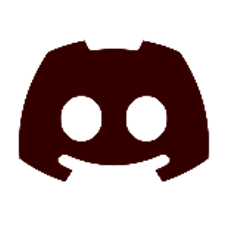
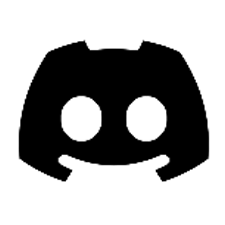
v2

diff --git a/aki/src/App.jsx b/aki/src/App.jsx
@@ -1,5 +1,6 @@
 import React from "react";
 
+
 function Debug() {
   return (
     <div>
@@ -46,14 +47,28 @@ function BioD(props) {
 function Obsession(props) {
   return (
     <div className="text-center uppercase">
-      <p>
+      <p className="text-md">
         {(props.type === "music" || props.type === "song") && "🎧"}
         {(props.type === "manga" || props.type === "book" || props.type === "manhua" || props.type === "manhwa") && "📖"}
         {props.type === "game" && "🎮"}
         {props.type === "anime" && "📺"}
         {props.type === "movie" && "🎬"}
         {props.type === "person" && "👤"}
+        {props.type === "artist" && "👤🎶"}
+        {props.type === "album" && "💿🎶"}
         {props.title}
+      </p>
+    </div>
+  );
+}
+function Games(props) {
+  return (
+    <div className="text-left uppercase">
+      <p className="text-md">
+        {(props.activity === "active") && "🎮"}
+        {(props.activity === "inactive") && "❌"}
+        {props.title}
+        {(props.id !== "") && <p className="text-xs">ID: {props.id}</p>}
       </p>
     </div>
   );
@@ -63,9 +78,9 @@ let twelve = new Date(1747238400 * 1000).toLocaleTimeString([], { hour: '2-digit
 
 export default function App() {
   return (
-    <div className="w-full flex items-center justify-center bg-light font-Montserrat overflow-hidden">
+    <div className=" flex items-center  bg-light font-Montserrat overflow-hidden">
       <div
-        className=" h-full min-h-screen w-full max-w-7xl
+        className="min-h-screen w-full max-w-7xl
         grid gap-3 p-3 
         border-font border-2 
         sm:grid-cols-1 md:grid-cols-2 lg:grid-cols-3
@@ -80,7 +95,7 @@ export default function App() {
           bg-bg rounded-3xl p-4"
         >
           <div className="flex h-full flex-col">
-            <h1 className="font-black text-2xl">⊹ Socials & Connections ⊹</h1>
+            <h1 className="font-black lg:text-2xl">⊹ Socials & Connections ⊹</h1>
             <div className="grid md:grid-cols-2 w-full">
               <Social img="./img/discord.png" alt="discord" name="@akihikooo" />
               <Social
@@ -94,14 +109,23 @@ export default function App() {
         <div id="call"
           className="col-span-1 row-span-1 bg-bg rounded-3xl p-4">
           <h1 className="text-md font-black">Names to call me:</h1>
-          <p className="text-center">Akiera, Akihiko, Aki</p>
+          <div className="grid grid-cols-2 gap-1">
+            <p className="text-center">Akiera</p>
+            <p className="text-center">Aki</p>
+            <p className="text-center">Akihiko</p>
+            <p className="text-center">Kizen</p>
+            <p className="text-center">Xeno <i>(Tze-noh)</i></p>
+          </div>
         </div>
-        <div id="obsession" className="col-span-1 bg-bg rounded-3xl p-4">
+        <div id="obsession" className="col-span-1 row-span-2 bg-bg rounded-3xl p-4">
           <h1 className="text-md font-black">Current Obsession:</h1>
-          <div>
-            <Obsession type="song" title="Multo | Cup of Joe"/>
+          <div className="">
             <Obsession type="song" title="Backburner | NIKI"/>
+            <Obsession type="artist" title="Lady Gaga"/>
+            <Obsession type="album" title="MAYHEM | Lady Gaga"/>
             <Obsession type="person" title="Mydei | Honkai Star Rail"/>
+            <Obsession type="person" title="Dan Heng | Honkai Star Rail"/>
+            <Obsession type="person" title="Caelus | Honkai Star Rail"/>
           </div>
         </div>
         <div id="bio" 
@@ -117,7 +141,24 @@ export default function App() {
             </div>
           </div>
         </div>
-        <div id="later" className="md:col-span-2 sm:col-span-1 row-span-1 bg-bg rounded-3xl p-4 flex items-center">
+        <div id="games"
+        className="col-span-1 row-span-2 bg-bg rounded-3xl p-4">
+          <h1 className="text-md font-black">Games I play:</h1>
+          <div className="grid grid-cols-1 gap-1">
+            <Games activity="inactive" title="Genshin Impact" id=""/>
+            <Games activity="inactive" title="Roblox" id="kiiiiizenn"/>
+            <Games activity="active" title="Honkai Star Rail" id="839062833 (Asia)"/>
+            <Games activity="active" title="Mobile Legends: Bang Bang" id="723128711 (10339)"/>
+            <Games activity="active" title="Minecraft" id="Ahnjiwon6091"/>
+            </div>
+          </div>
+        {/* <div id="projects" className="lg:col-span-1 sm:col-span-1 row-span-1 bg-bg rounded-3xl p-4 flex items-center">
+          <h1 className="text-md font-black text-center">⊹ Projects ⊹</h1>
+          <div className="grid grid-cols-1 gap-1">
+            <p className="text-center">Until the Last Sunset</p>
+          </div>
+          </div> */}
+        <div id="later" className="lg:col-span-2 sm:col-span-1 row-span-1 bg-bg rounded-3xl p-4 flex items-center">
           <img src="./img/sprite.png" className="h-24" alt="sprite"/>
           <h1 className="text-md font-black text-center">⊹ Infos will be added later, I'm too lazy to develop ⊹</h1>
           </div>

diff --git a/aki/tailwind.config.js b/aki/tailwind.config.js
@@ -14,10 +14,10 @@ export default {
       MontRSub:["Montserrat-SubrayadaR"]
     },
     colors: {
-      bg: 'hsl(360, 100%, 70%)',
-      muted: 'hsl(360, 100%, 95%)',
-      font: 'hsl(360, 100%, 20%)',
-      light: 'hsl(360, 100%, 90%)',
+      bg: 'hsl(166, 100%, 70%)',
+      muted: 'hsl(166, 100%, 95%)',
+      font: 'hsl(166, 100%, 20%)',
+      light: 'hsl(166, 100%, 90%)',
     }
   },
   },

diff --git a/aki/src/App.css b/aki/src/App.css
@@ -1,3 +1,7 @@
 @tailwind base;
 @tailwind components;
 @tailwind utilities;
+
+.social-icons{
+    filter: hue-rotate(90deg);
+}
